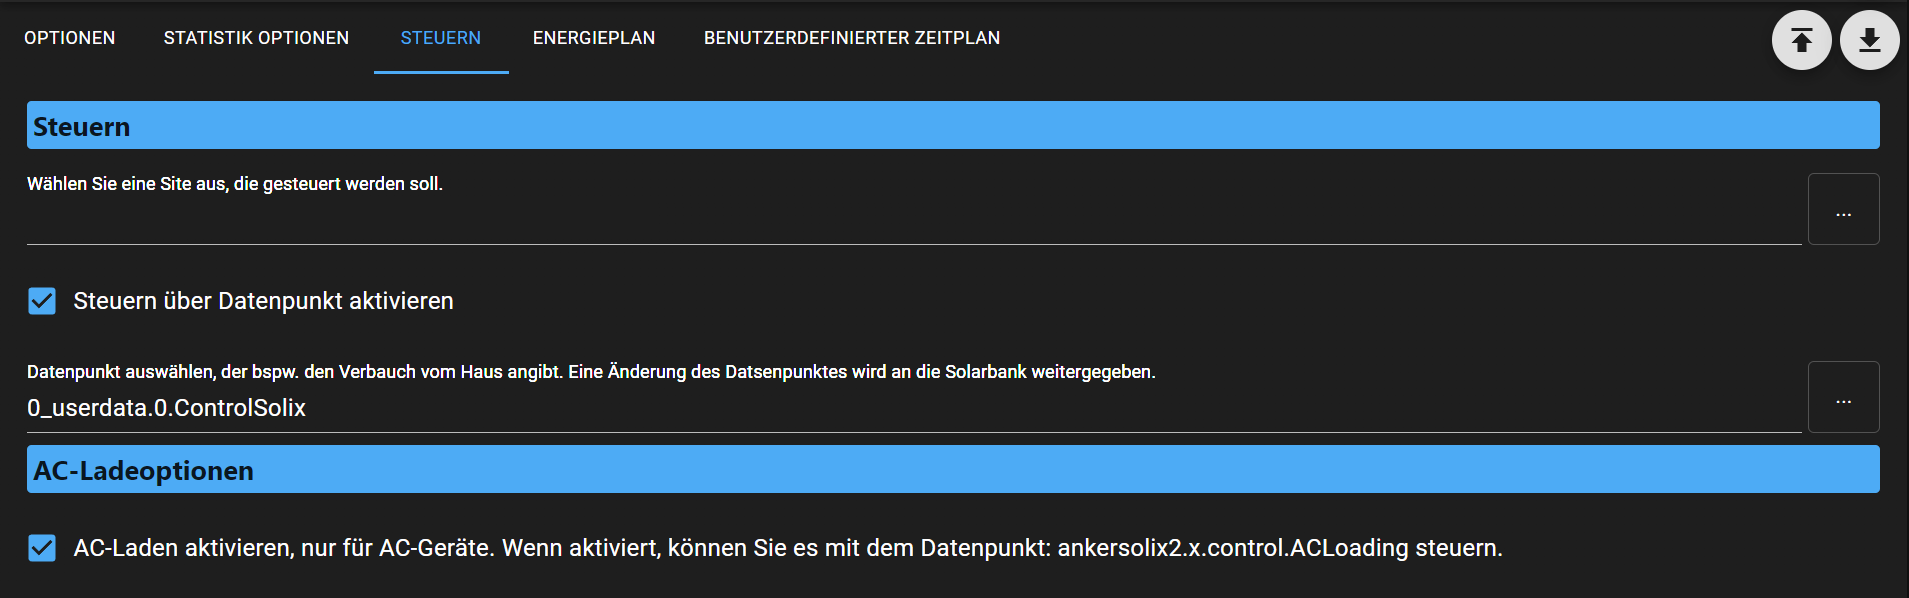
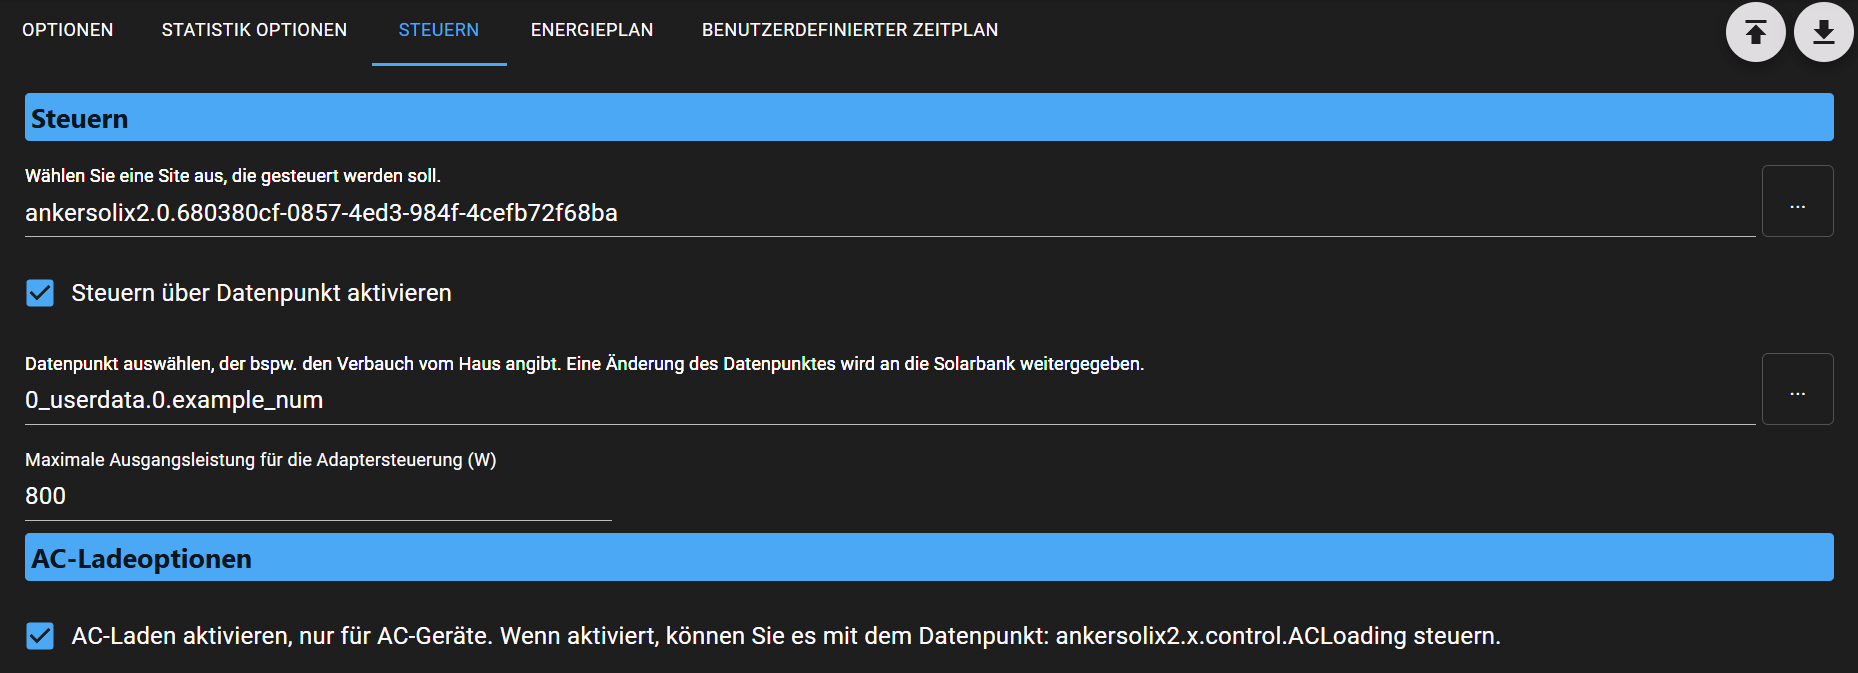
docs(readme): document adapter output limit
Add the new maximum power output control option to the English and German docs and refresh the admin control screenshot.

diff --git a/docs/de/README.md b/docs/de/README.md
@@ -38,9 +38,14 @@ Nicht benötigte Daten bitte abwählen, da dies die Anfragehäufigkeit reduziert
 
 - Bei der zu steuernden Site wir die Solarbank angegeben die gesteuert werden soll.
   Hier wird nur die Site-ID ausgewählt und nicht die Solarbank an sich.K
-  Keine Sorge sollte man die Solarbank ausgewählt haben wird trotzen nur die Site-ID verwendet.
+  Keine Sorge sollte man die Solarbank ausgewählt haben wird trotzen nur die Site-ID verwendet.  
+
 - Steuern über einen selbstgewählten Datenpunkt, diese ist freiwählbar und ist er eingestellt überwacht der Adapter den Datenpunkt auf Änderung.
   Ändert sich der Wert, stell der Adapter die Solarbank auf den benutzerdefinierten Modus ein mit 24/7 und den Powerwert aus dem Datenpunkt.
+  Über die Option "Maximale Ausgangsleistung für die Adaptersteuerung (W)" kann dieser Wert zusätzlich begrenzt werden.  
+
+- Ist der Wert im Datenpunkt höher als das eingestellte Limit, wird nur der begrenzte Wert an die Anker Cloud übertragen.  
+
   Vorsicht: alle selbst eingestellen benutzdefinierten Zeilpläne werde überschrieben, Abhilfe wird im Punkt Energieplan beschrieben.
 
 ### Energieplan

diff --git a/docs/en/README.md b/docs/en/README.md
@@ -46,6 +46,10 @@ Please deselect any unnecessary data to reduce the frequency of requests.
   If configured, the adapter monitors the data point for changes.  
   When the value changes, the adapter sets the Solarbank to custom mode with 24/7 operation  
   and uses the power value from the data point.  
+  The option "Maximum power output for adapter control (W)" can be used to apply an additional limit to this value.  
+
+- If the value in the data point is higher than the configured limit, only the capped value is transferred to the Anker Cloud.  
+
   Warning: All manually configured custom schedules will be overwritten.  
   See the section "Energy Plan" for a workaround.
 
